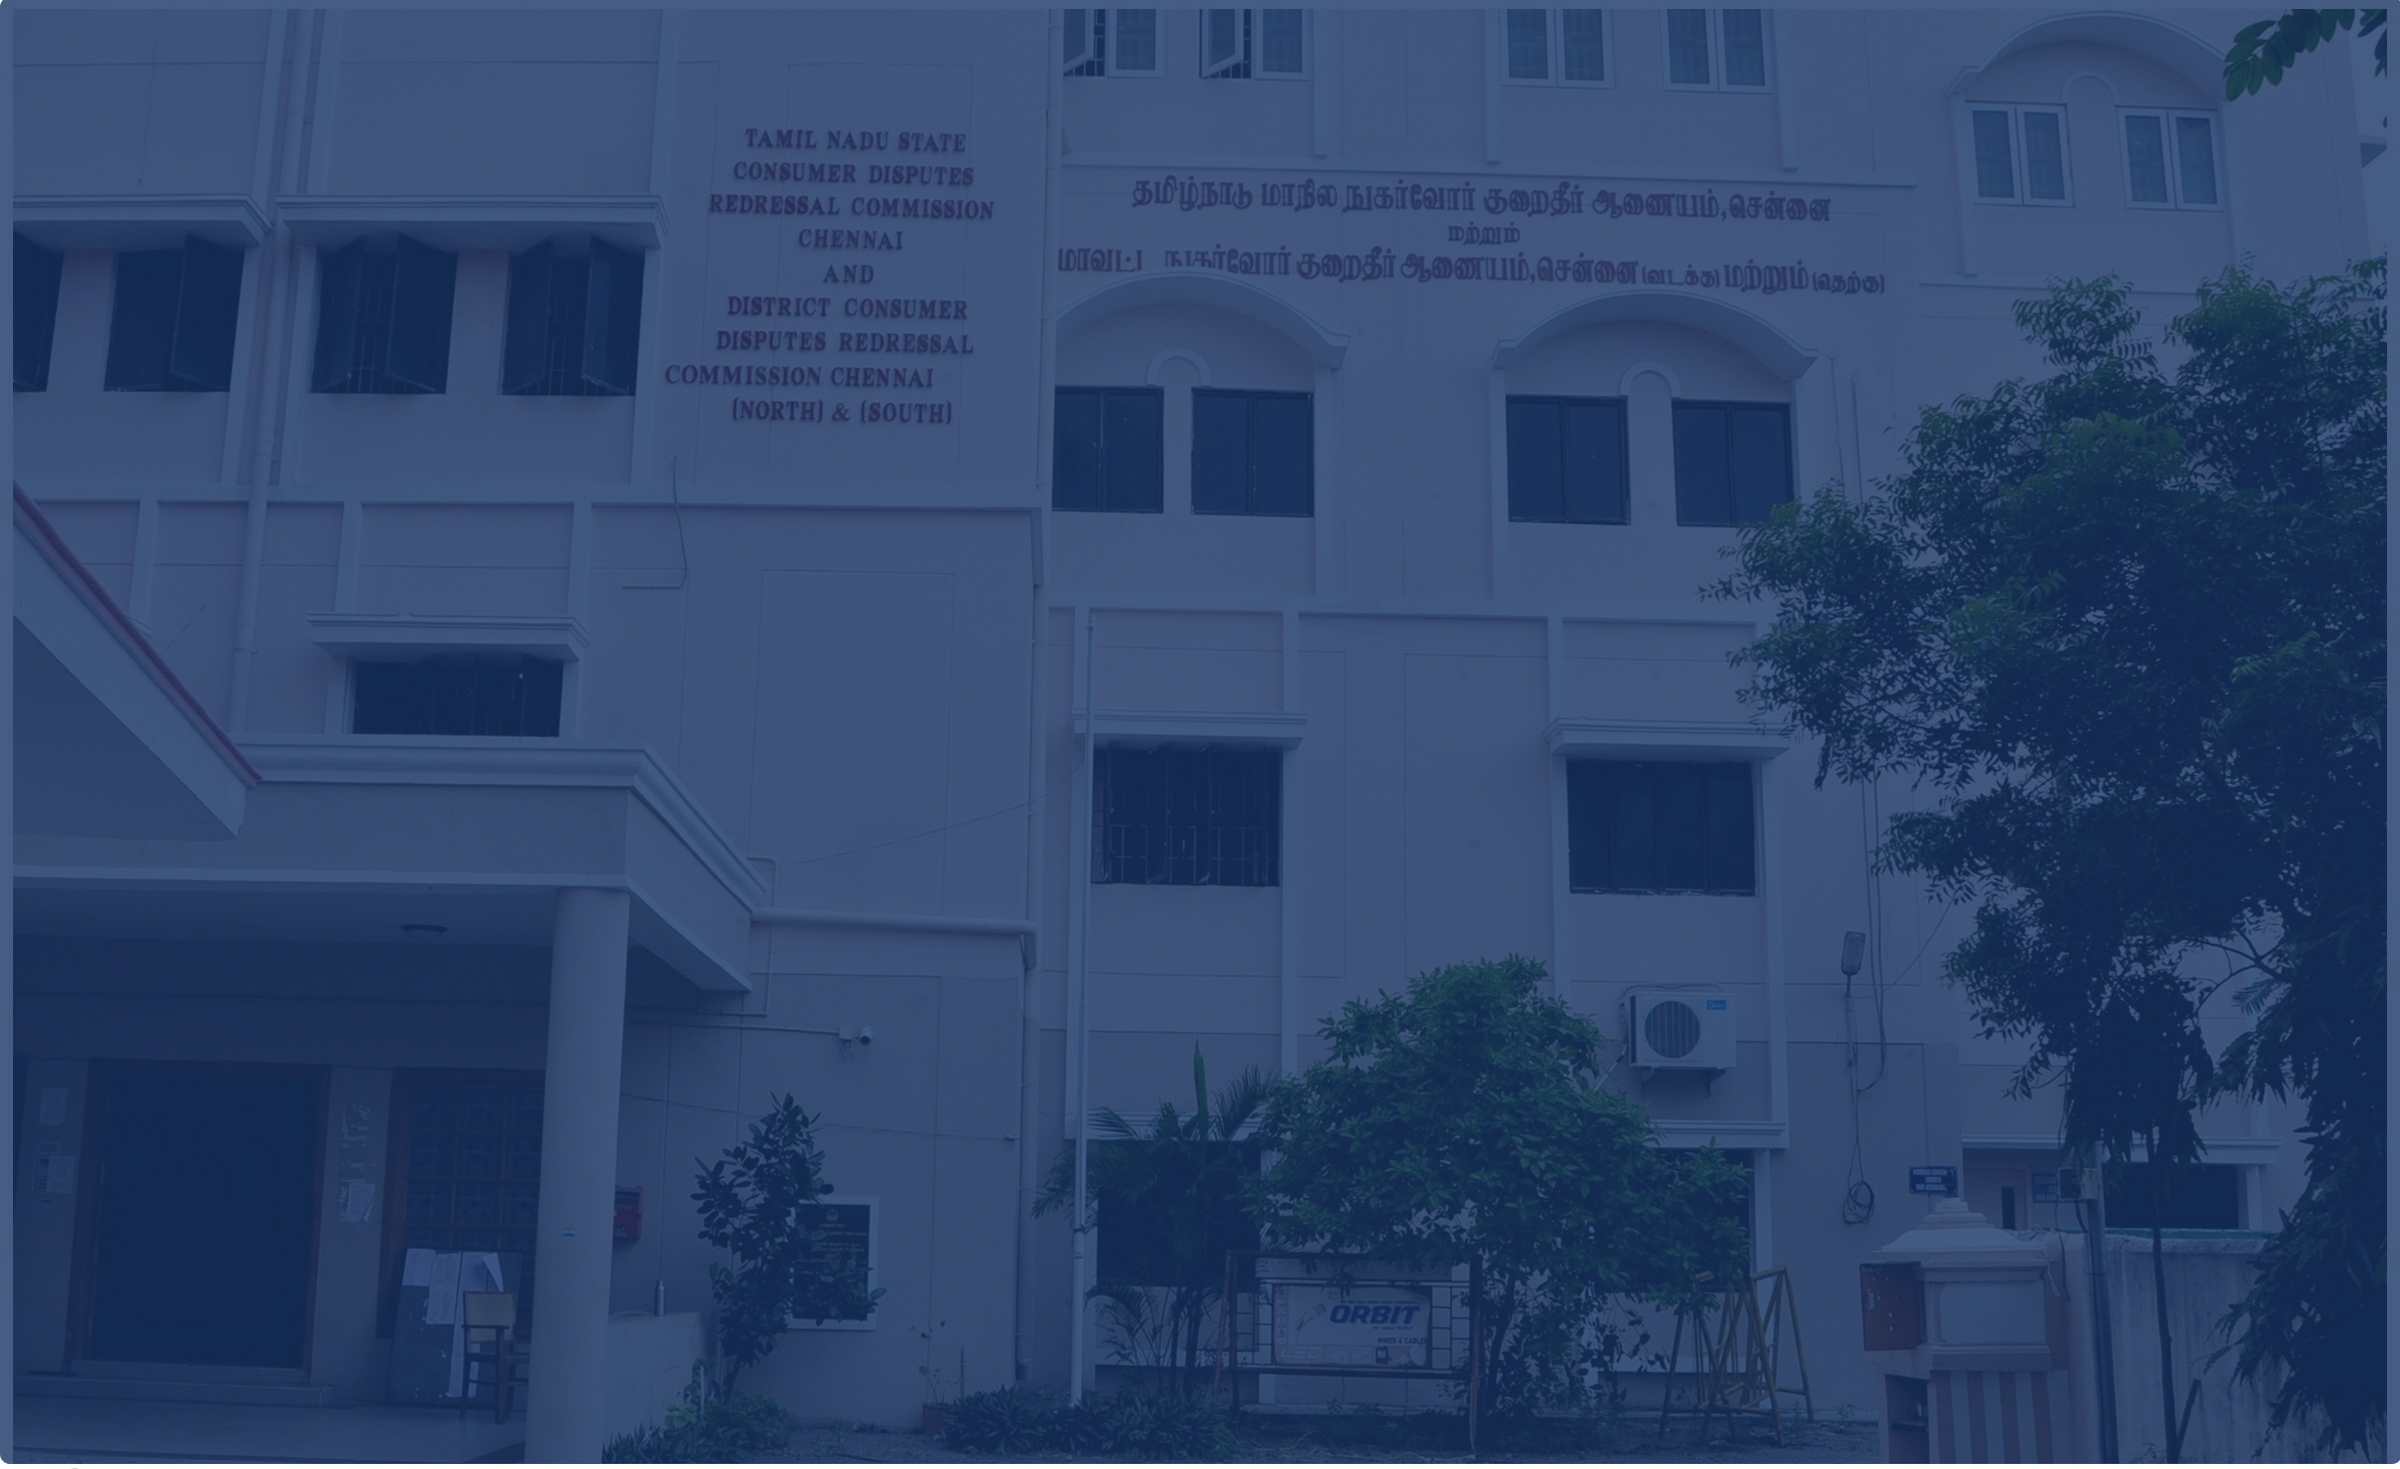
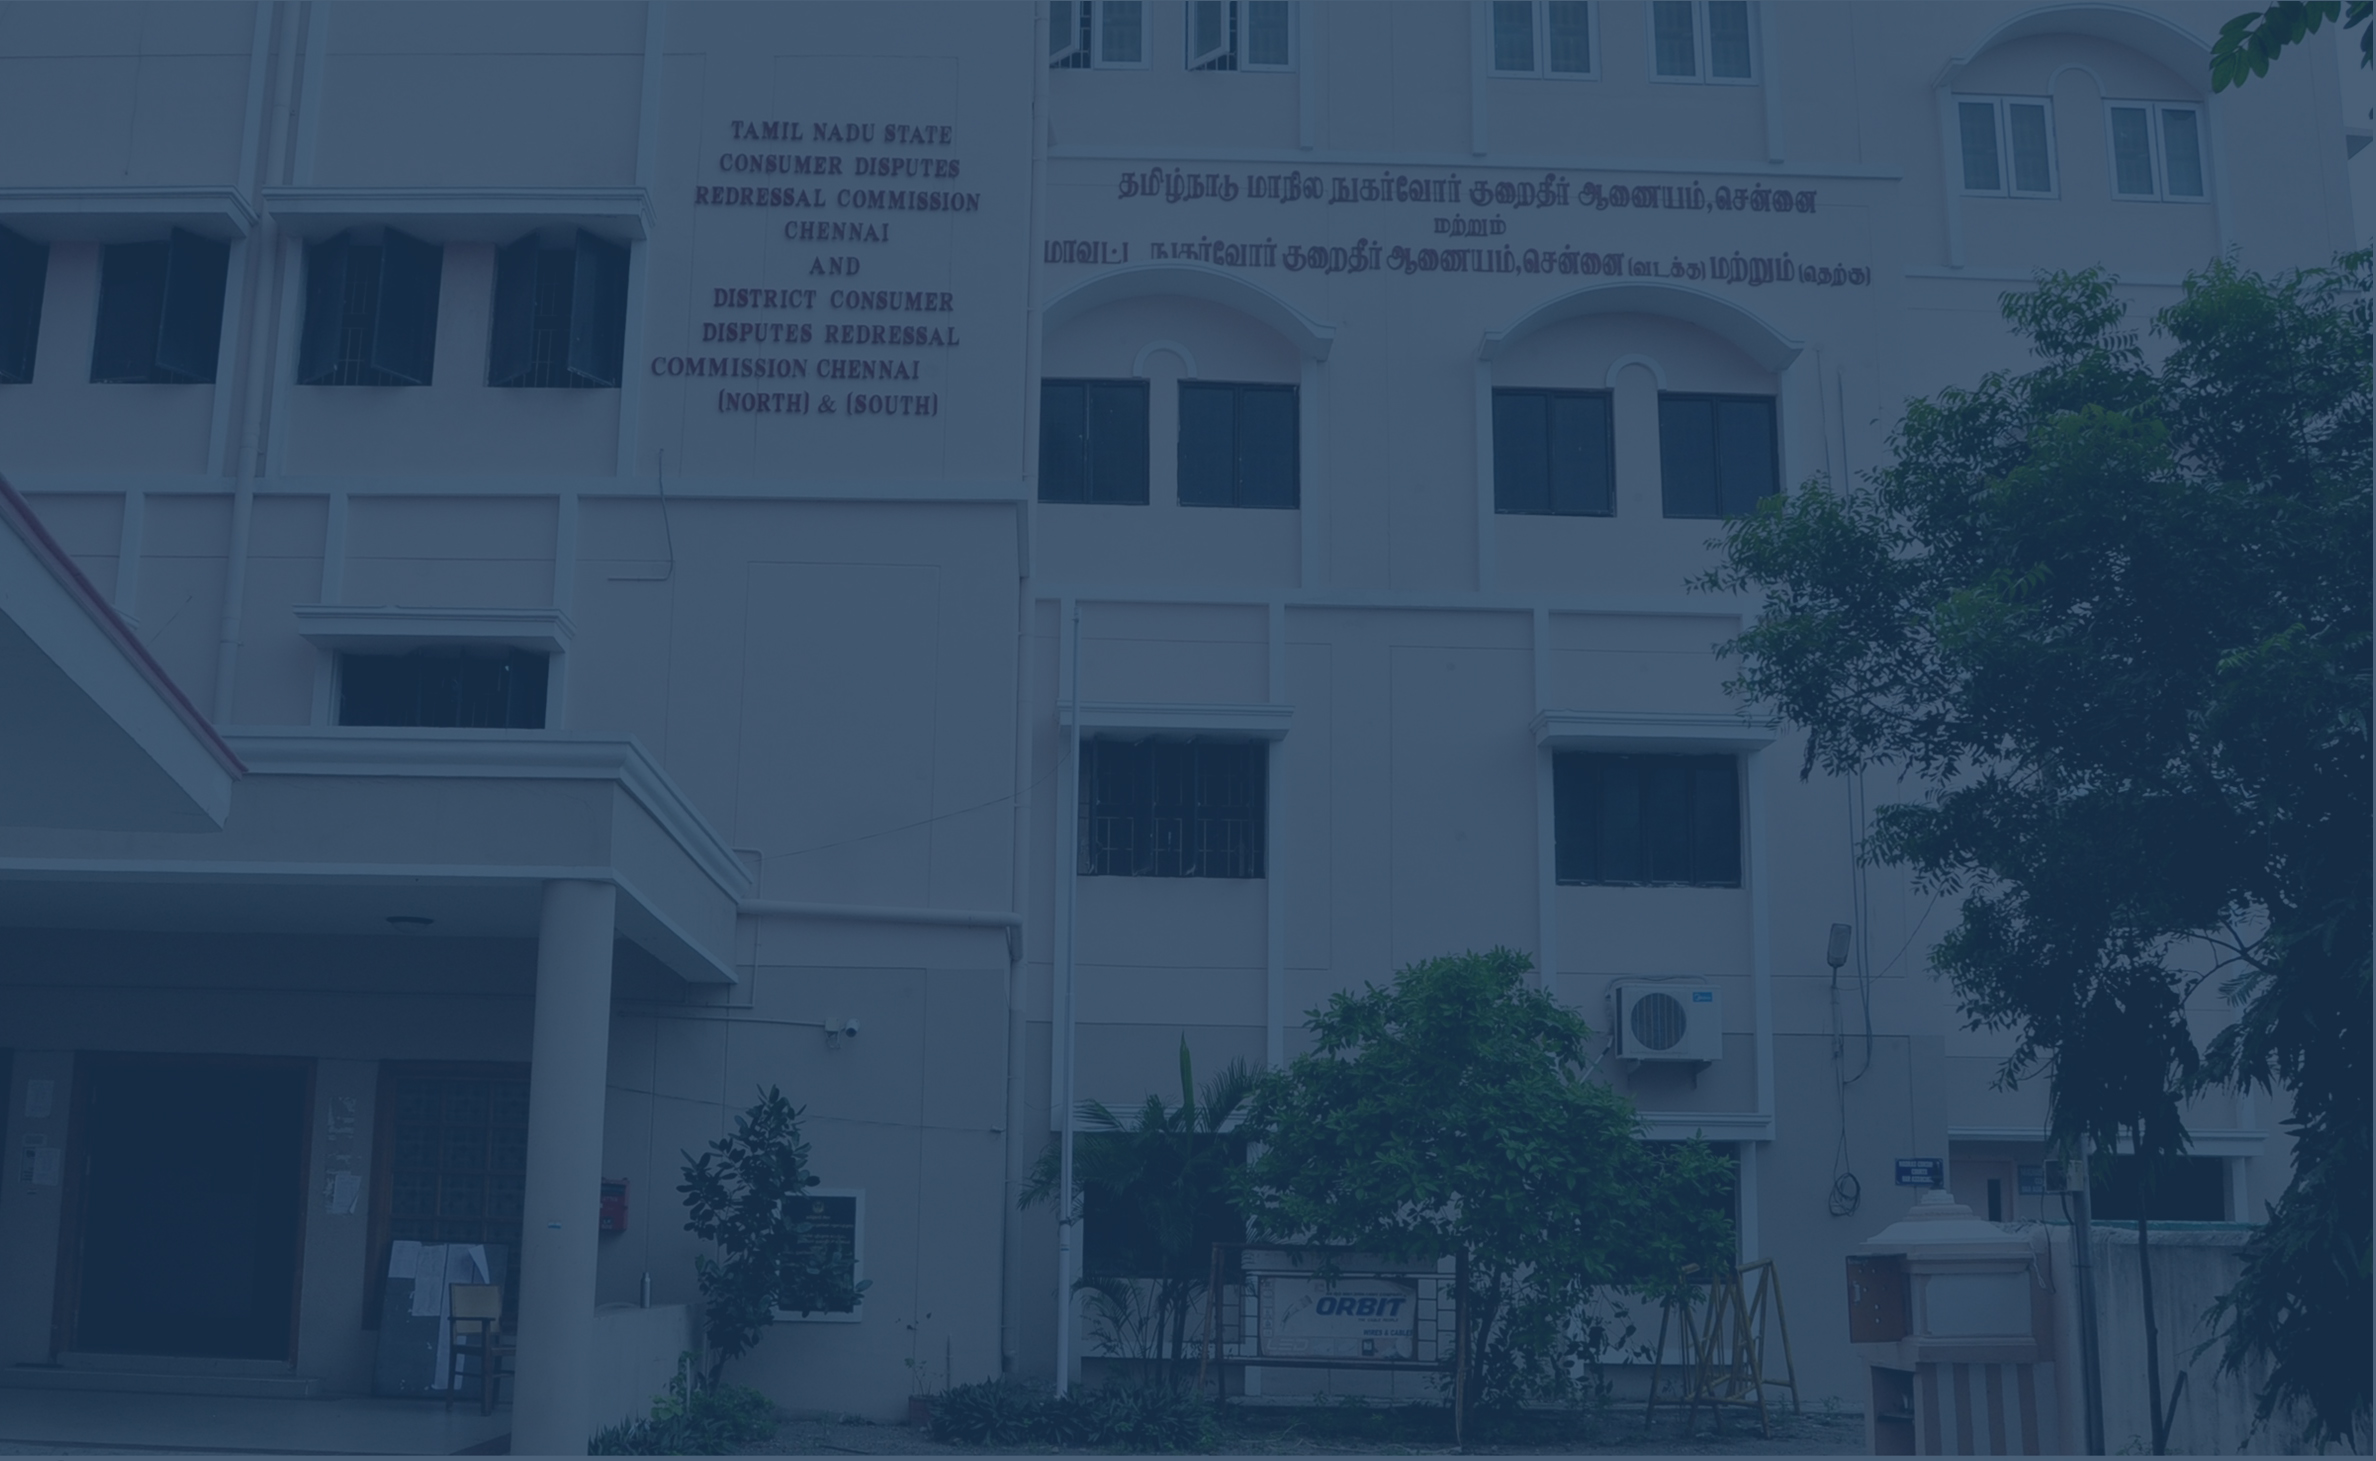
UI changes

diff --git a/src/components/Section/About/AboutTwo.tsx b/src/components/Section/About/AboutTwo.tsx
@@ -59,7 +59,7 @@ const AboutTwo = () => {
                     education and resources that enable consumers to make
                     informed decisions.
                   </p>
-                  <h3 className="mt-4">Our Mission</h3>
+                  <h3 className="mt-4 heading7">Our Mission</h3>
                   <p>
                     Our mission is to ensure that every consumer in Tamil Nadu
                     is aware of their rights and can exercise them effectively.

diff --git a/src/components/Breadcrumb/BreadcrumbItem.tsx b/src/components/Breadcrumb/BreadcrumbItem.tsx
@@ -23,7 +23,7 @@ const BreadcrumbItem: React.FC<Props> = ({ link, img, title, desc }) => {
           className="w-full h-full object-cover"
         />
         {/* Full-screen overlay */}
-        <div className="overlay absolute inset-0 w-[1999px] bg-[#0a1b35] opacity-85 blur-sm"></div>
+        <div className="overlay absolute inset-0 w-[1999px]  blur-sm"></div>
       </div>
 
       {/* Content Container */}
